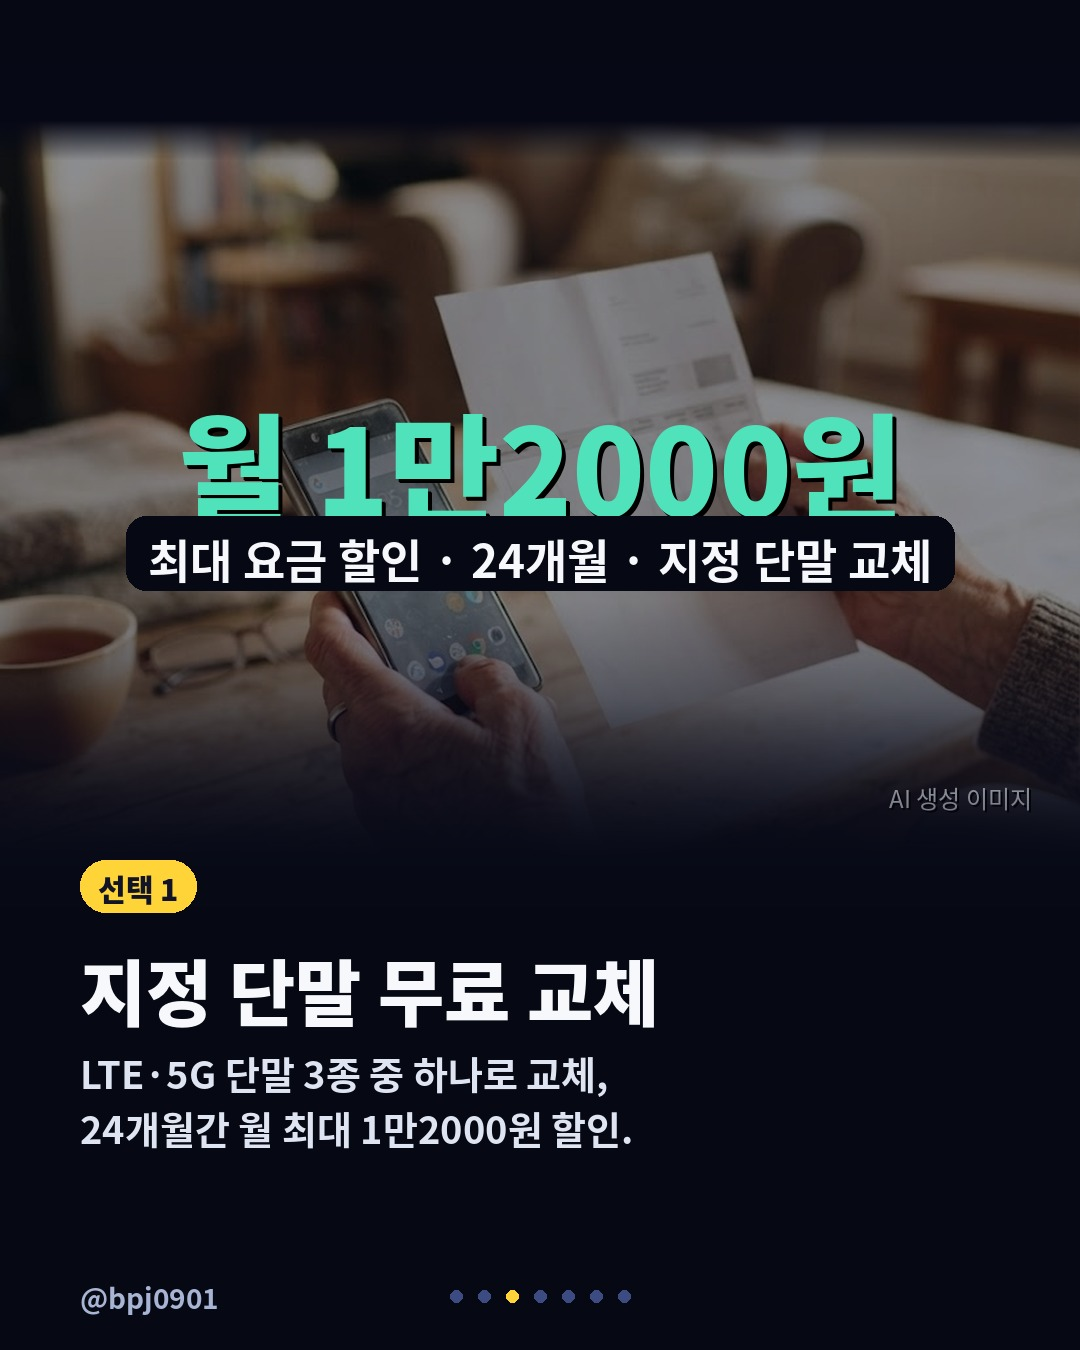
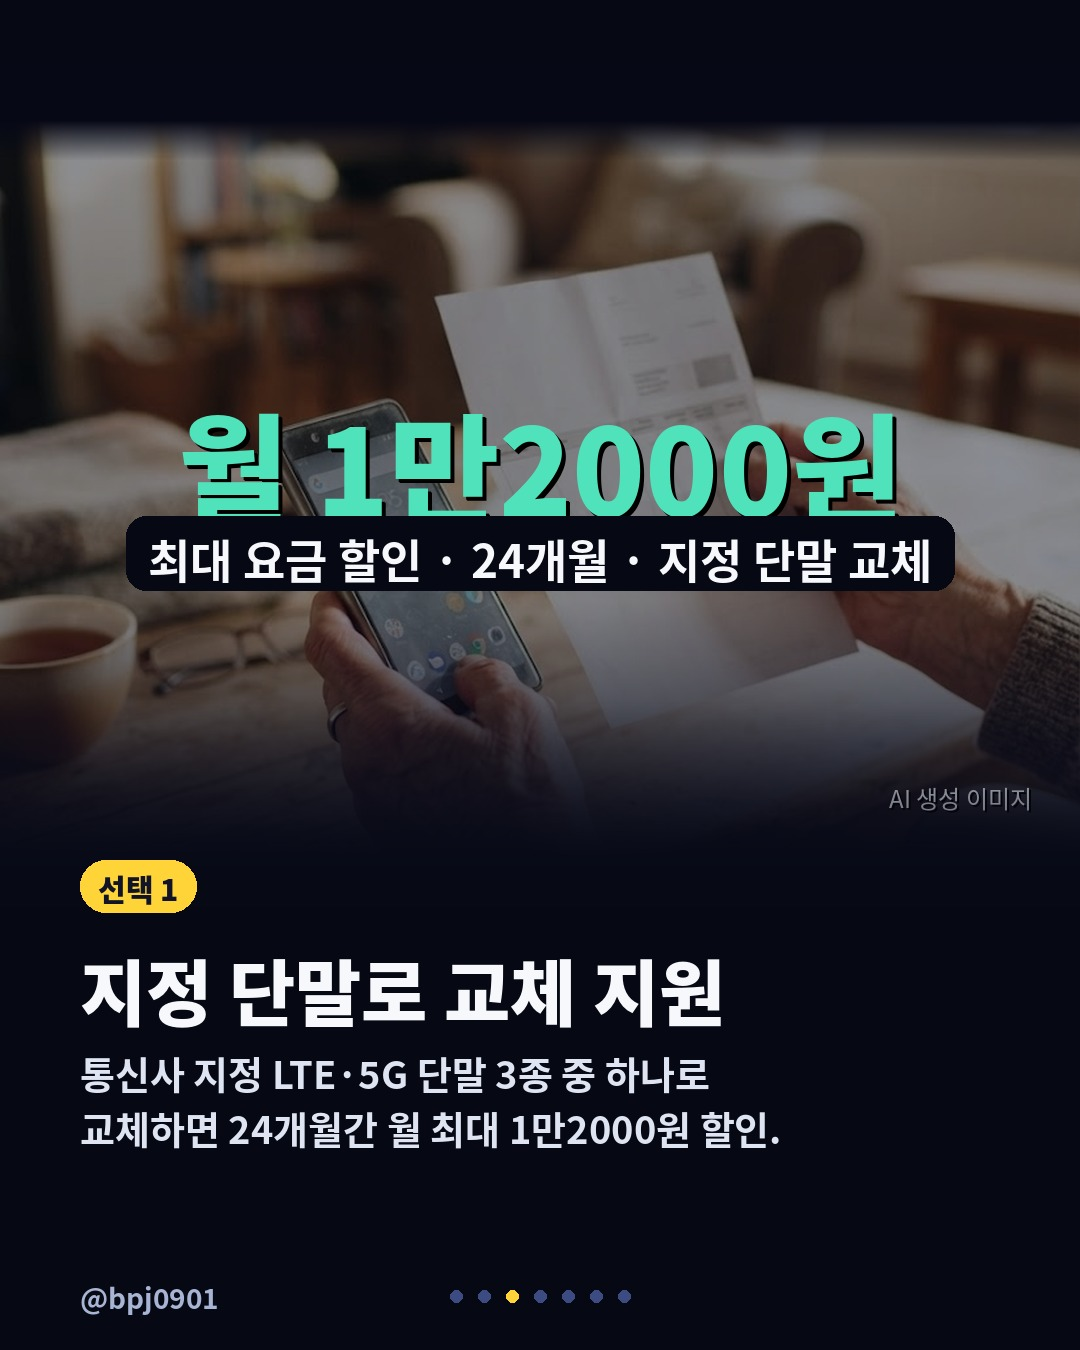
카드뉴스 1500: '무료' 표현 제거
Claude-Session: https://claude.ai/code/session_01VQQ9ZXe8Yyx1XQNsZ5eCUH

Changed region(s): [[0.0611, 0.7156, 0.7028, 0.8711]]

diff --git a/topics_log.md b/topics_log.md
@@ -35,4 +35,4 @@
 - 2026-11-05 쇼츠 1830: 2027 수능(11/19) 휴대폰·스마트워치 1교시 전 제출·AI 스마트안경 착용만 해도 무효+1년 응시 정지·아날로그 시계만 (베리타스알파 11.03·이로운넷 11.02·한국대학신문 10.16)
 - 2026-11-06 1200: 갤럭시 버즈 온(삼성 첫 클립형 이어폰) 29만9000원·10/27 출시·사흘 만에 초도물량 소진 (헤럴드경제 11.04·데일리안·SBS Biz 10.20·삼성 뉴스룸)
 - 2026-11-06 쇼츠 1230: 3분기 글로벌 스마트폰 출하 20% 급감(2억5470만 대·13년 만에 최저)·삼성 5780만 대 1위·애플 5650만 대·칩플레이션 (아이티데일리·스페셜타임스 11.02, 옴디아)
-- 2026-11-06 1500: SKT·KT 3G 신규가입 중단·전환 지원 3가지(무료 교체 월 1만2000원 할인·SKT 38만원/KT 15만원·요금 할인만)·회선 25만2591 (디지털투데이·뉴스1 11.06)
+- 2026-11-06 1500: SKT·KT 3G 신규가입 중단·전환 지원 3가지(지정 단말 교체 월 1만2000원 할인·SKT 38만원/KT 15만원·요금 할인만)·회선 25만2591 (디지털투데이·뉴스1 11.06)
